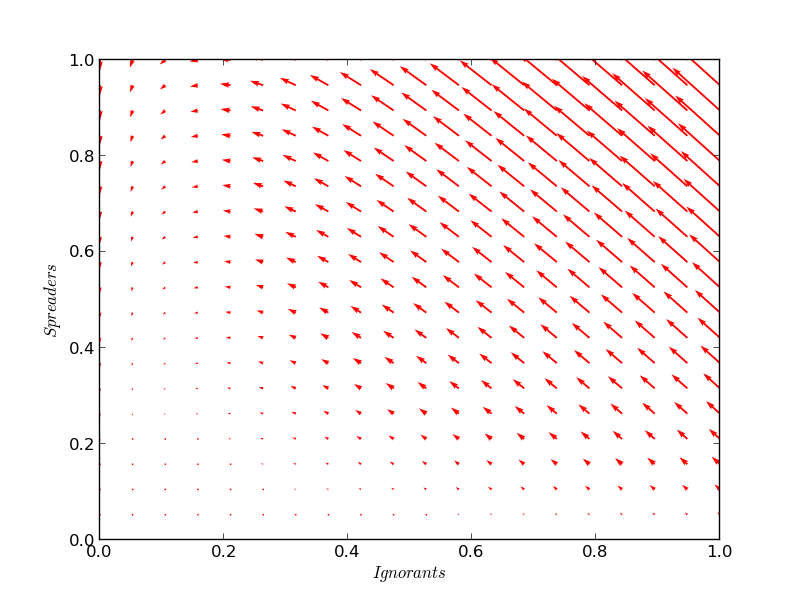
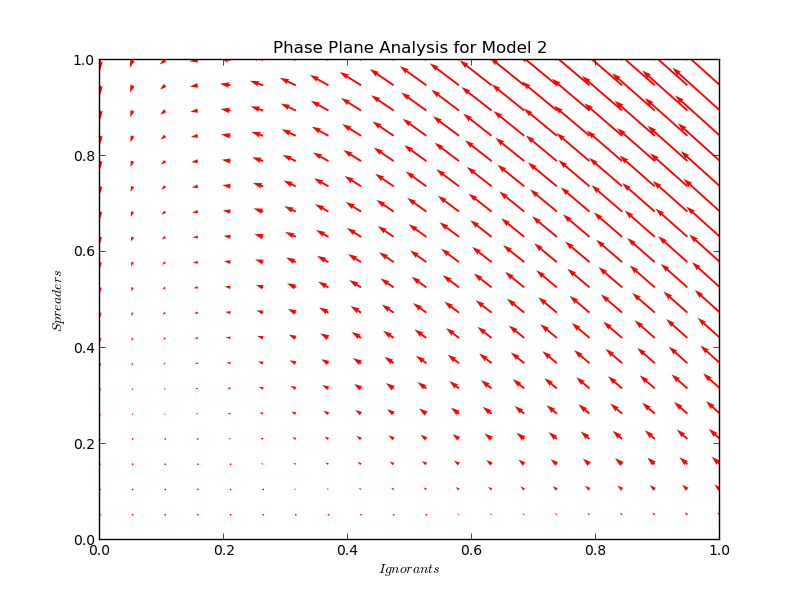
images

diff --git a/src/simpleRumorModel.py b/src/simpleRumorModel.py
@@ -249,7 +249,7 @@ def doModel(g, spch, stch, nsp, cf, ssc, count):
 
   
   #title = "SIR - "+", ".join(list(str(key) + ": " + str(params[key]) for key in params))
-  title = "#%d, g=%d, SpCh=%0.2f, StCh=%0.3f, NumSp=%d, CF=%0.2f, SSC=%0.2f" %(count%32+1, g, spch ,stch, nsp, cf, ssc )
+  title = "#%d, g=%d, SpCh=%0.2f, StCh=%0.3f, NumSp=%d, CF=%0.2f, SSC=%0.2f" %(count+1, g, spch ,stch, nsp, cf, ssc )
 
   filename = "imgtest/"+ str(g)+"/"+ re.sub('[^0-9a-zA-Z\.]+', '_', title)+".png"
   #filename = "img/tmp" +"/"+ re.sub('[^0-9a-zA-Z\.]+', '_', title)+".png"
@@ -291,13 +291,13 @@ def doModel(g, spch, stch, nsp, cf, ssc, count):
 if __name__ == '__main__':
   #possibleGraphs = map(int, ("0  107  1684  1912  3437  348  3980  414  686  698".split("  ")))
   possibleGraphs = [0]#[698,1912, 3437] # [0]
-  possibleSpCh = [.1, .50, 1] #[.1,.5] # [.1, .50, 1]
-  possibleStCh = [.01, .1, .50 ] #[.001, .1] # [.01, .1, .50 ]
+  possibleSpCh = [1.0]#[.1, .50, 1] #[.1,.5] # [.1, .50, 1]
+  possibleStCh = [.5 ]#[.01, .1, .50 ] #[.001, .1] # [.01, .1, .50 ]
   possibleNumSp= [1,5,25]#[1,25]#[1,5,25]
   possibleCF = [.01,.1,1.0]#[.05, .5]#[.01,.1,1.0]
-  possibleSSF = [0, .2]#[0,.1,.5]
+  possibleSSF =[0,.1,.5] #[0, .2][0,.1,.5]
 
-  count = 0
+  count = 217
   for g in possibleGraphs:
     for spch in possibleSpCh:
       for stch in possibleStCh:

diff --git a/src/SIR/rumor_sir2.py b/src/SIR/rumor_sir2.py
@@ -9,6 +9,8 @@
 
 import matplotlib as mpl
 mpl.use('Agg')
+font = {'size' : 10}
+mpl.rc('font', **font)
 import matplotlib.pyplot as plt
 import scipy.integrate as spi
 import numpy as np
@@ -42,13 +44,15 @@ RES = spi.odeint(diff_eqs,INPUT,t_range)
 # R = N - I - S
 R = map(lambda x: N - x[0] - x[1], RES)
 
+
+title = "Model 2 - lambda=%0.3f, alpha=%0.3f, delta=%0.3f, k=%0.1f S0%%=%0.4f, I0%%=%0.4f" %(lambd, alpha, delta, k, S0*100, I0*100)
 print RES
 #Ploting
 pl.subplot(211)
 pl.plot(RES[:,0], '-g', label='Ignorants')
 pl.plot(R, '-k', label='Stiflers')
 pl.legend(loc=0)
-pl.title('SIR')
+pl.title(title)
 pl.xlabel('Time')
 pl.ylabel('Ignorants and Stiflers')
 pl.subplot(212)
@@ -87,6 +91,7 @@ for i in range(NI):
     v[i,j] = yprime[1]
 Q = pl.quiver(Y1, Y2, u, v, color='r')
 
+pl.title("Phase Plane Analysis for Model 2")
 pl.xlabel('$Ignorants$')
 pl.ylabel('$Spreaders$')
 pl.xlim([0,1])

diff --git a/src/SIR/rumor_sir.py b/src/SIR/rumor_sir.py
@@ -9,6 +9,9 @@
 
 import matplotlib as mpl
 mpl.use('Agg')
+font = {'size' : 10}
+mpl.rc('font', **font)
+
 import matplotlib.pyplot as plt
 import scipy.integrate as spi
 import numpy as np
@@ -39,12 +42,13 @@ RES = spi.odeint(diff_eqs,INPUT,t_range)
 
 print RES
 
+title = "Model 1 - lambda=%0.3f, alpha=%0.3f, k=%0.1f S0%%=%0.4f, I0%%=%0.4f" %(lambd, alpha, k, S0*100, I0*100)
 #Ploting
 pl.subplot(211)
 pl.plot(RES[:,0], '-g', label='Ignorants')
 pl.plot(RES[:,2], '-k', label='Stiflers')
 pl.legend(loc=0)
-pl.title('SIR')
+pl.title(title)
 pl.xlabel('Time')
 pl.ylabel('Ignorants and Stiflers')
 pl.subplot(212)
